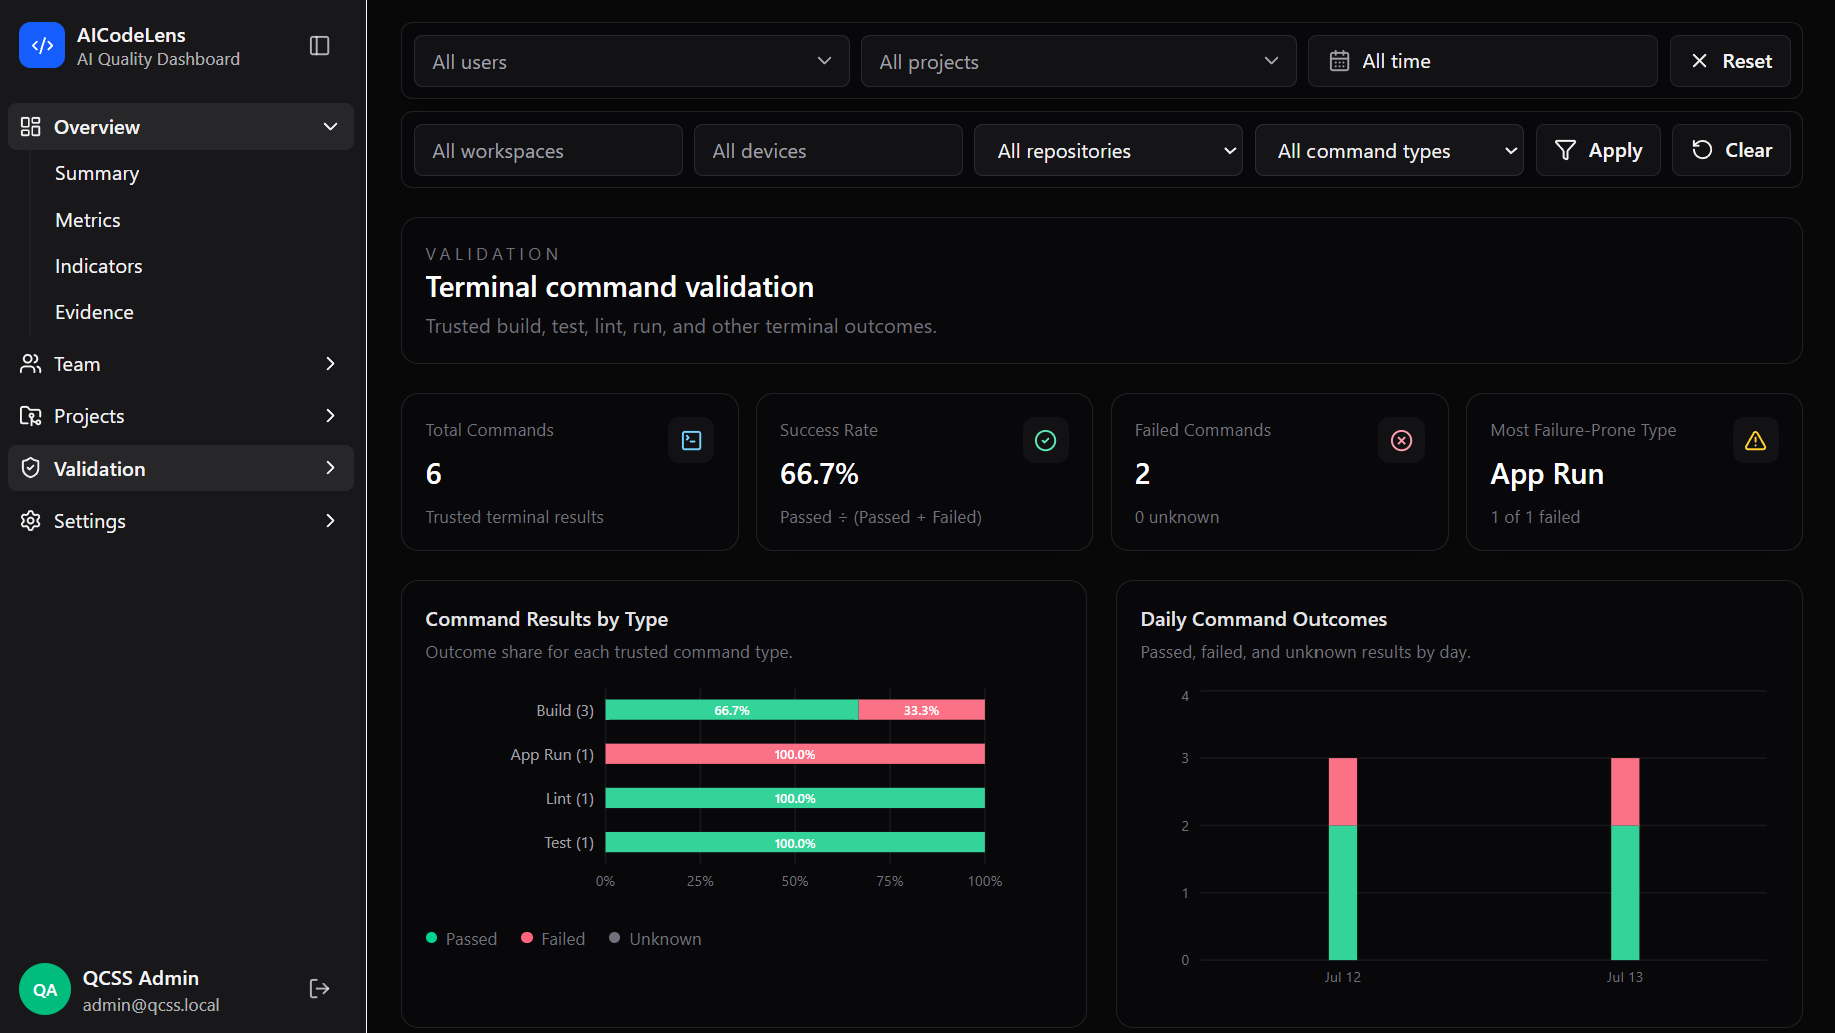
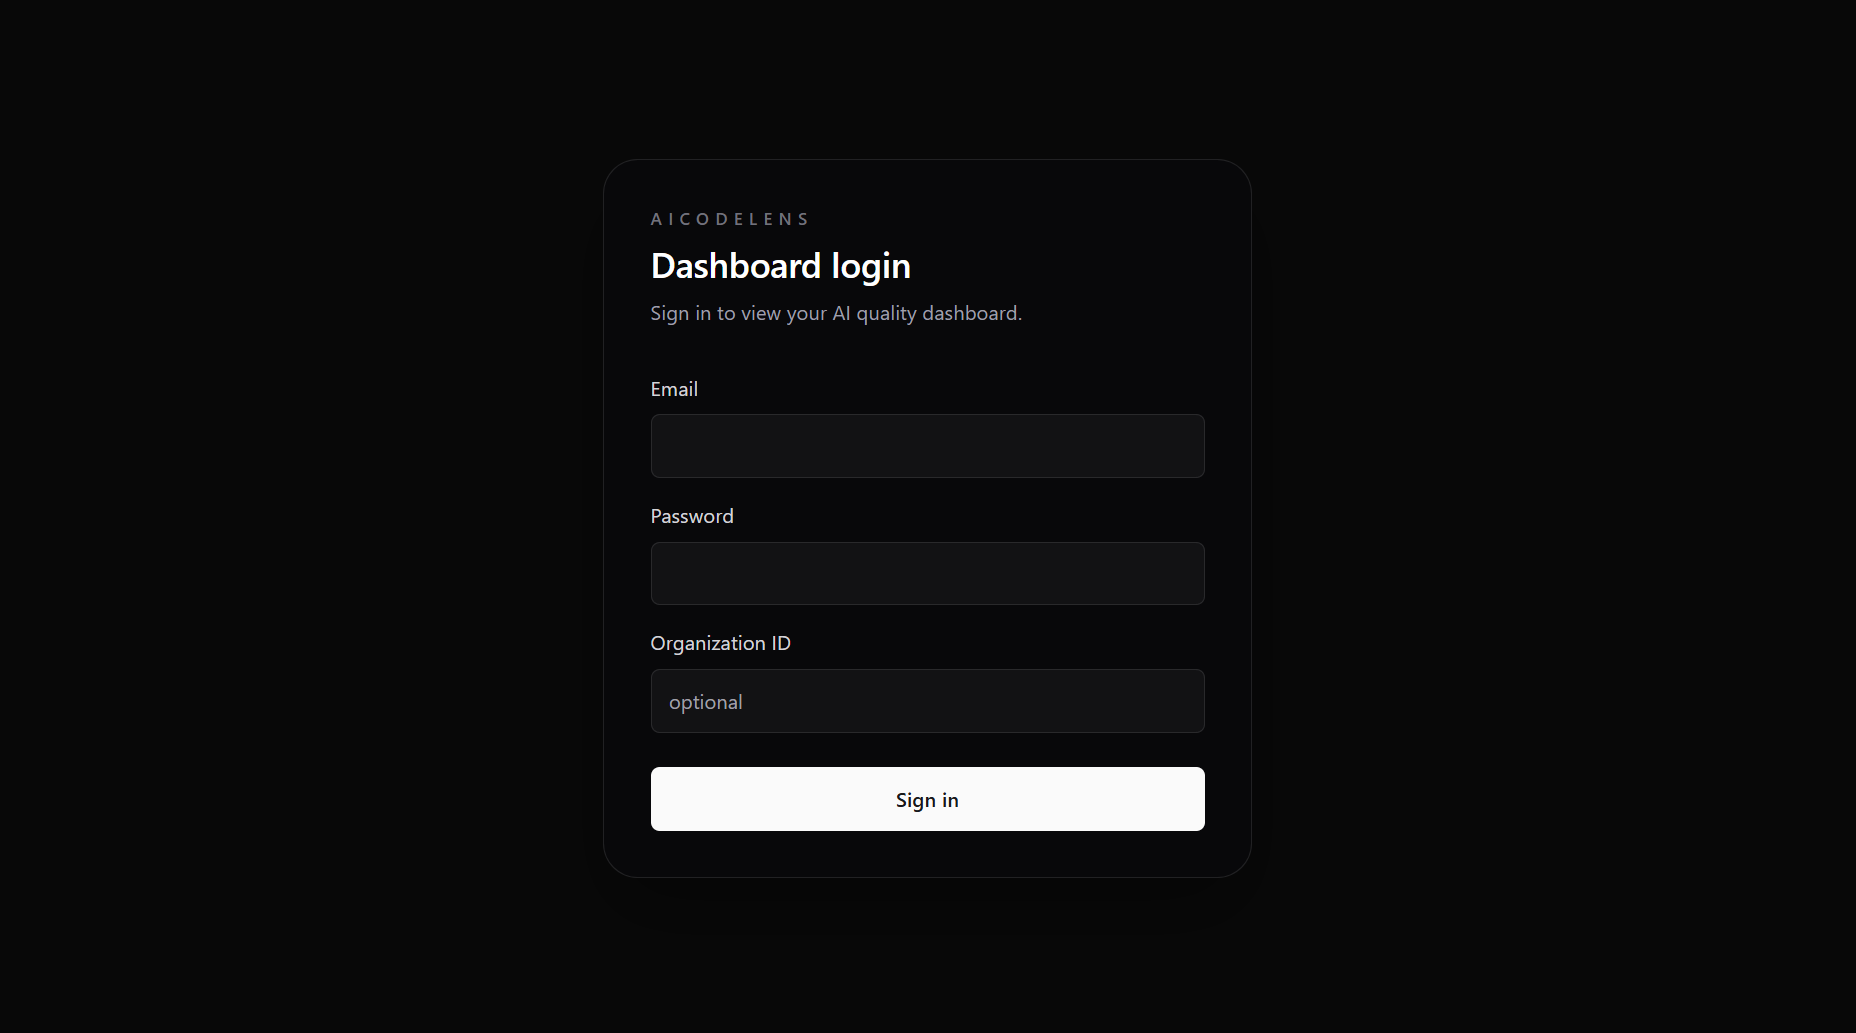
projects section upgrade

diff --git a/src/components/Projects/index.jsx b/src/components/Projects/index.jsx
@@ -190,7 +190,7 @@ const Projects = forwardRef(({ id }, ref) => {
                 loading="lazy"
               />
               <div className="absolute bottom-2 left-1/2 z-20 flex -translate-x-1/2 items-center gap-1">
-                {[4, 1, 2, 3, 0].map((image) => (
+                {[0, 1, 2, 3, 4].map((image) => (
                   <button
                     key={image}
                     type="button"
